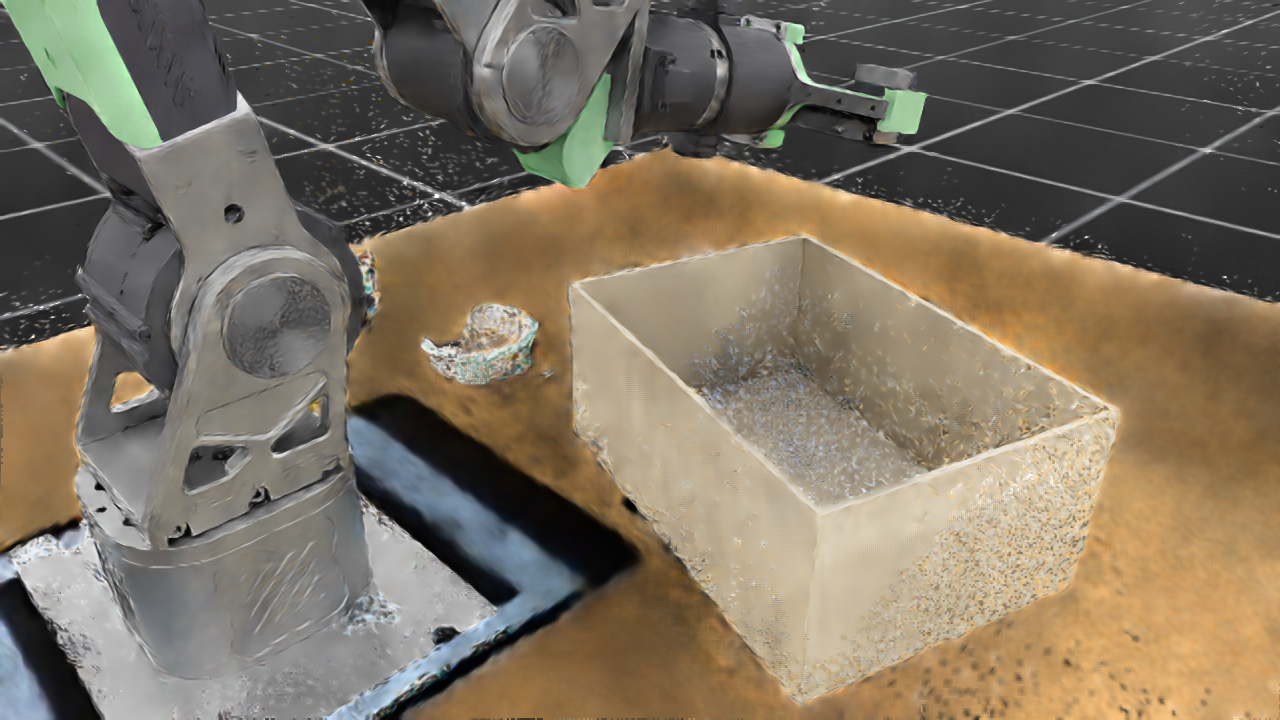
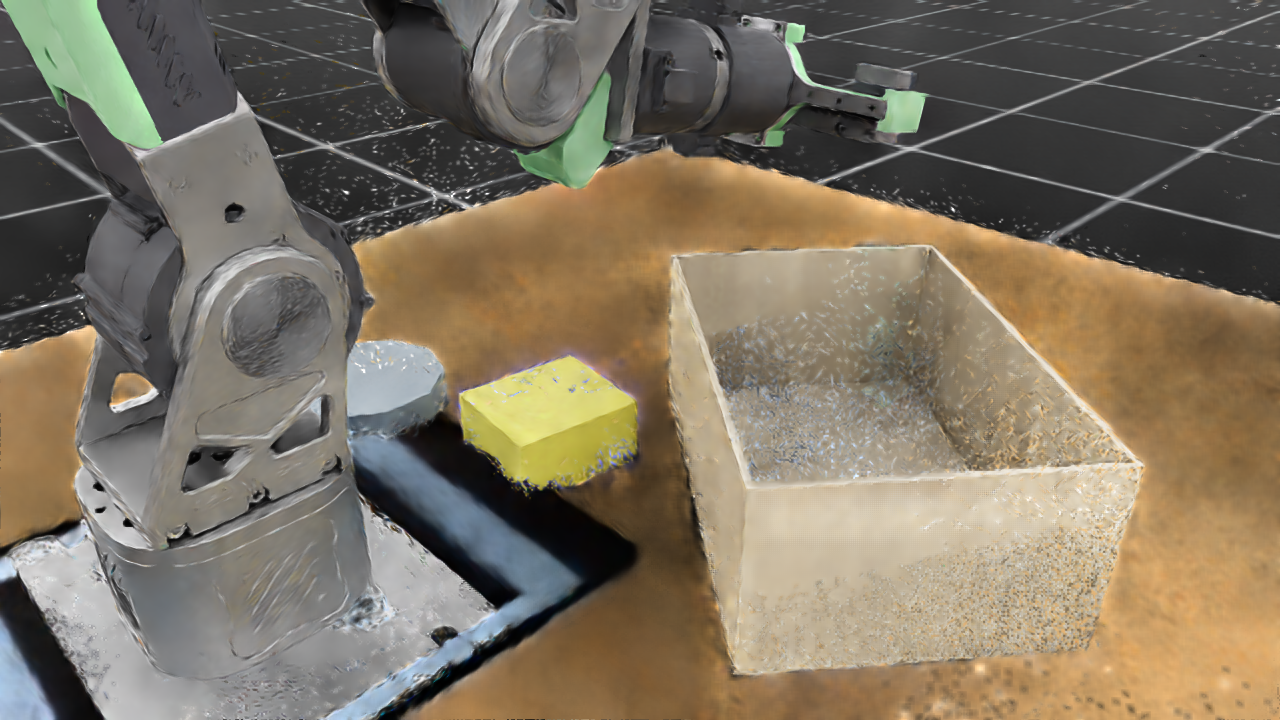
re3sim: workstation camera at the measured rig, plus a tilt sweep tool
Mount is now Big Will's spec: 0.66 m in front of the base, 1.00 m above the
table (top face z=0), 75 deg down from horizontal -> eye (0.66, 0, 1.00),
target (0.4012, 0, 0.0341). Both the renderer and the demo recorder read
STATION_CAM_EYE/TARGET, so this moves them together.

scripts/station_cam_tilt_sweep.py renders the same mount at 45..90 deg with
the recorder's lens (17 mm / 20.955 mm, 640x480), and prints where the optical
axis meets the table -- x = EYE_X - EYE_Z/tan(tilt), which is what decides
framing. At 75 deg that is x=+0.39, nearer the camera than the cube's spawn at
x=0.22, so the workspace sits high in frame; ~68 deg centres it.

diff --git a/scripts/station_cam_tilt_sweep.py b/scripts/station_cam_tilt_sweep.py
@@ -1,0 +1,106 @@
+#!/usr/bin/env python
+"""Render the workstation camera at a fixed mount and a sweep of downward tilts.
+
+Mount (Big Will, 2026-08-09): 66 cm in front of the robot base, 100 cm above the table top.
+The desk's top face is z = 0 and the arm stands on it, so "above the table" is just z.
+
+Tilt is measured DOWN FROM HORIZONTAL, so 0 deg looks straight at the arm and 90 deg looks
+straight down at the desk. The optical axis hits the table at
+
+    x_hit = EYE_X - EYE_Z / tan(tilt)
+
+which is what actually decides whether the cube (x ~ 0.22) and the box are in frame -- at
+75 deg the axis lands at x = 0.39, i.e. BEHIND the cube, so the workspace sits high in the
+image. That is the thing to look at in these renders.
+
+.. code-block:: bash
+
+    python -u scripts/station_cam_tilt_sweep.py --enable_cameras --headless
+"""
+
+import argparse
+
+from isaaclab.app import AppLauncher
+
+parser = argparse.ArgumentParser(description="Sweep the workstation camera's downward tilt.")
+parser.add_argument("--task", type=str, default="Rebot-Workstation-PickPlace1-Play-v0")
+parser.add_argument("--out", type=str, default="docs/envs/re3sim/renders/station_tilt")
+parser.add_argument("--settle", type=int, default=60)
+parser.add_argument("--width", type=int, default=640)
+parser.add_argument("--height", type=int, default=480)
+parser.add_argument("--dist", type=float, default=0.66, help="metres in front of the base")
+parser.add_argument("--height-above-table", type=float, default=1.00)
+parser.add_argument("--tilts", type=str, default="45,55,60,65,70,75,80,85,90",
+                    help="degrees below horizontal, comma separated")
+AppLauncher.add_app_launcher_args(parser)
+args_cli = parser.parse_args()
+args_cli.enable_cameras = True
+
+app_launcher = AppLauncher(args_cli)
+simulation_app = app_launcher.app
+
+"""Rest everything follows."""
+
+import math  # noqa: E402
+import os  # noqa: E402
+
+import gymnasium as gym  # noqa: E402
+import numpy as np  # noqa: E402
+import torch  # noqa: E402
+
+import isaaclab.sim as sim_utils  # noqa: E402
+from isaaclab.sensors import CameraCfg  # noqa: E402
+from isaaclab_tasks.utils import parse_env_cfg  # noqa: E402
+
+import reBot_RL.tasks  # noqa: F401,E402
+
+
+def main() -> None:
+    env_cfg = parse_env_cfg(args_cli.task, device=args_cli.device, num_envs=1)
+    # Same optics the demo recorder mounts for `station_cam`, so what is picked here is what a
+    # policy would actually be trained on rather than a prettier preview lens.
+    env_cfg.scene.render_cam = CameraCfg(
+        prim_path="{ENV_REGEX_NS}/RenderCam", update_period=0.0,
+        width=args_cli.width, height=args_cli.height, data_types=["rgb"],
+        spawn=sim_utils.PinholeCameraCfg(focal_length=17.0, horizontal_aperture=20.955,
+                                         clipping_range=(0.02, 20.0)))
+    env = gym.make(args_cli.task, cfg=env_cfg)
+    e = env.unwrapped
+    env.reset()
+    cam = e.scene["render_cam"]
+    for _ in range(args_cli.settle):
+        env.step(torch.zeros((e.num_envs, 7), device=e.device))
+
+    out = os.path.abspath(args_cli.out)
+    os.makedirs(out, exist_ok=True)
+    origins = e.scene.env_origins.cpu().numpy()
+
+    eye = np.array([args_cli.dist, 0.0, args_cli.height_above_table])
+    for deg in [float(t) for t in args_cli.tilts.split(",")]:
+        th = math.radians(deg)
+        # Look back toward the arm (-x) and down by `th`; 1 m along the axis is an arbitrary
+        # target distance -- only the direction matters to `set_world_poses_from_view`.
+        target = eye + np.array([-math.cos(th), 0.0, -math.sin(th)])
+        # One pose PER CAMERA -- `set_world_poses_from_view` does not broadcast (see
+        # render_workstation.py). num_envs is 1 here, but keep the shape honest.
+        cam.set_world_poses_from_view(
+            torch.tensor(origins + eye, dtype=torch.float32, device=e.device),
+            torch.tensor(origins + target, dtype=torch.float32, device=e.device),
+        )
+        for _ in range(12):
+            e.sim.render()
+            cam.update(dt=0.0)
+        rgb = cam.data.output["rgb"][0, ..., :3].cpu().numpy().astype(np.uint8)
+        import imageio.v2 as imageio
+        path = os.path.join(out, f"tilt_{int(round(deg)):02d}.png")
+        imageio.imwrite(path, rgb)
+        hit = eye[0] - eye[2] / math.tan(th) if deg < 89.99 else eye[0]
+        print(f"wrote {path}   tilt {deg:.0f} deg   axis hits table at x = {hit:+.3f} m"
+              f"   mean pixel {rgb.mean():.1f}", flush=True)
+
+    env.close()
+
+
+if __name__ == "__main__":
+    main()
+    simulation_app.close()

diff --git a/source/reBot_RL/reBot_RL/tasks/manager_based/re3sim/workstation_env_cfg.py b/source/reBot_RL/reBot_RL/tasks/manager_based/re3sim/workstation_env_cfg.py
@@ -115,11 +115,19 @@ else:
 #: carry their own copies. A view that is inspected in one tool and filmed in another has to
 #: be the same view or neither measurement means anything.
 #:
-#: Chosen by rendering candidates and looking. Three of the first four were wrong in ways the
-#: arithmetic did not predict: too low and the gaussian desk's near edge cuts the cube in
-#: half, too close and the arm leaves frame.
-STATION_CAM_EYE = (0.95, 0.00, 0.42)
-STATION_CAM_TARGET = (0.17, 0.00, 0.06)
+#: 2026-08-09, Big Will's measured rig, replacing the render-picked pose: **0.66 m in front of
+#: the robot base, 1.00 m above the table, tilted 75 deg down from horizontal.** The desk's top
+#: face is z = 0 and the arm stands on it, so "above the table" is just z.
+#:
+#: The target is the mount plus one metre along that tilt -- only the DIRECTION matters to
+#: ``set_world_poses_from_view``. What the tilt actually controls is where the optical axis
+#: meets the table, ``x = EYE_X - EYE_Z / tan(tilt)``: at 75 deg that is x = +0.39 m, which is
+#: NEARER the camera than the cube's spawn (x = 0.22), so the workspace sits in the upper half
+#: of the frame and the lower third is empty desk. ~68 deg centres it instead
+#: (``scripts/station_cam_tilt_sweep.py`` renders the whole sweep). 75 deg is what was asked
+#: for and what is shipped.
+STATION_CAM_EYE = (0.66, 0.0, 1.0)
+STATION_CAM_TARGET = (0.4012, 0.0, 0.0341)
 
 
 #: The Rubix cube is **authored**, not reconstructed -- ``scripts/author_rubiks_cube_usd.py``.
